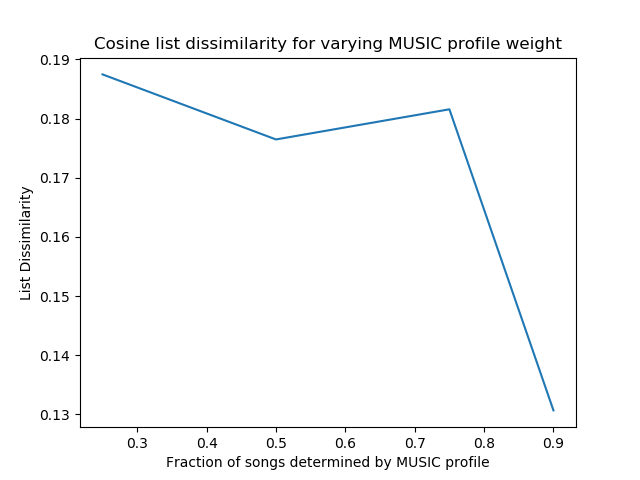
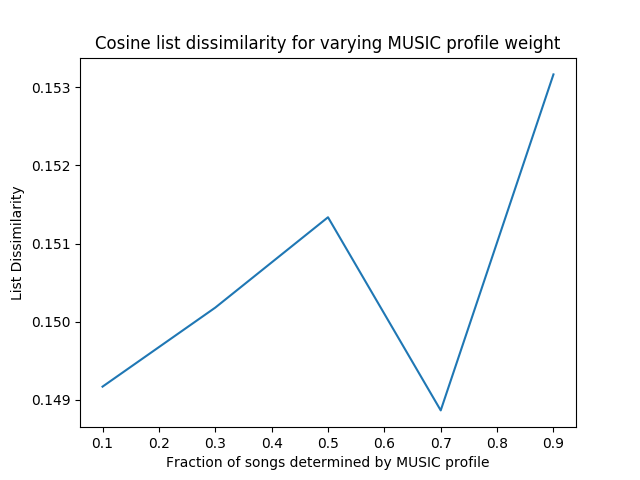
Add matts version of evaliuation hyperopt

diff --git a/evaluation_hyperopt.py b/evaluation_hyperopt.py
@@ -202,14 +202,14 @@ if __name__ == '__main__':
     ##################################################################
 
     print("Building model...")
-    NUM_VALS = 4
+    NUM_VALS = 5
     model = ALSpkNN(user_df, song_df, k=100, knn_frac=0.25, cf_weighting_alpha=1)
     print("Fitting model...")
     model.fit(train_plays)
     
     all_MAPk_vals = []
     all_cos_dissim_vals = []
-    limit_users = 999999
+    limit_users = 5000
     
     MAPk_vals = np.zeros(NUM_VALS)
     cos_dissim_vals = np.zeros(NUM_VALS)
@@ -250,7 +250,10 @@ if __name__ == '__main__':
     plt.plot(knn_frac_vals,cos_dissim_vals)
 #     plt.show(block=False)
     plt.savefig("./figures/div_knn_frac")
-
+    
+    #redefine
+    MAPk_vals = np.zeros(NUM_VALS)
+    cos_dissim_vals = np.zeros(NUM_VALS)
     
     min_overlap_vals = [0, 0.05, 0.1,0.15,0.2]
     for i,min_overlap in enumerate(min_overlap_vals):
@@ -289,9 +292,11 @@ if __name__ == '__main__':
     plt.plot(min_overlap_vals,cos_dissim_vals)
 #     plt.show(block=False)
     plt.savefig("./figures/div_overlap")
-
     
-    k_vals = [10,50,100,150,200]
+    #redefine
+    MAPk_vals = np.zeros(NUM_VALS)
+    cos_dissim_vals = np.zeros(NUM_VALS)
+    k_vals = [10,50,100,500,1000]
     for i,k_val in enumerate(k_vals):
         model.k = k_val
         metrics = get_metrics(
@@ -310,12 +315,13 @@ if __name__ == '__main__':
     all_MAPk_vals.append(MAPk_vals)
     all_cos_dissim_vals.append(cos_dissim_vals)
     
+    
     print(MAPk_vals)
     plt.figure()
     plt.title("MAP@K for number of kNN neighbours")
     plt.xlabel("Number of kNN neighbours")
     plt.ylabel("MAP@K value")
-    plt.plot(min_overlap_vals,MAPk_vals)
+    plt.plot(k_vals,MAPk_vals)
 #     plt.show(block=False)
     plt.savefig("./figures/mapk_knn")
 
@@ -324,7 +330,7 @@ if __name__ == '__main__':
     plt.title("Cosine list dissimilarity for varying number of kNN neighbours")
     plt.xlabel("Number of kNN neighbours")
     plt.ylabel("List Dissimilarity")
-    plt.plot(min_overlap_vals,cos_dissim_vals)
+    plt.plot(k_vals,cos_dissim_vals)
 #     plt.show(block=False)
     plt.savefig("./figures/div_knn")
     
